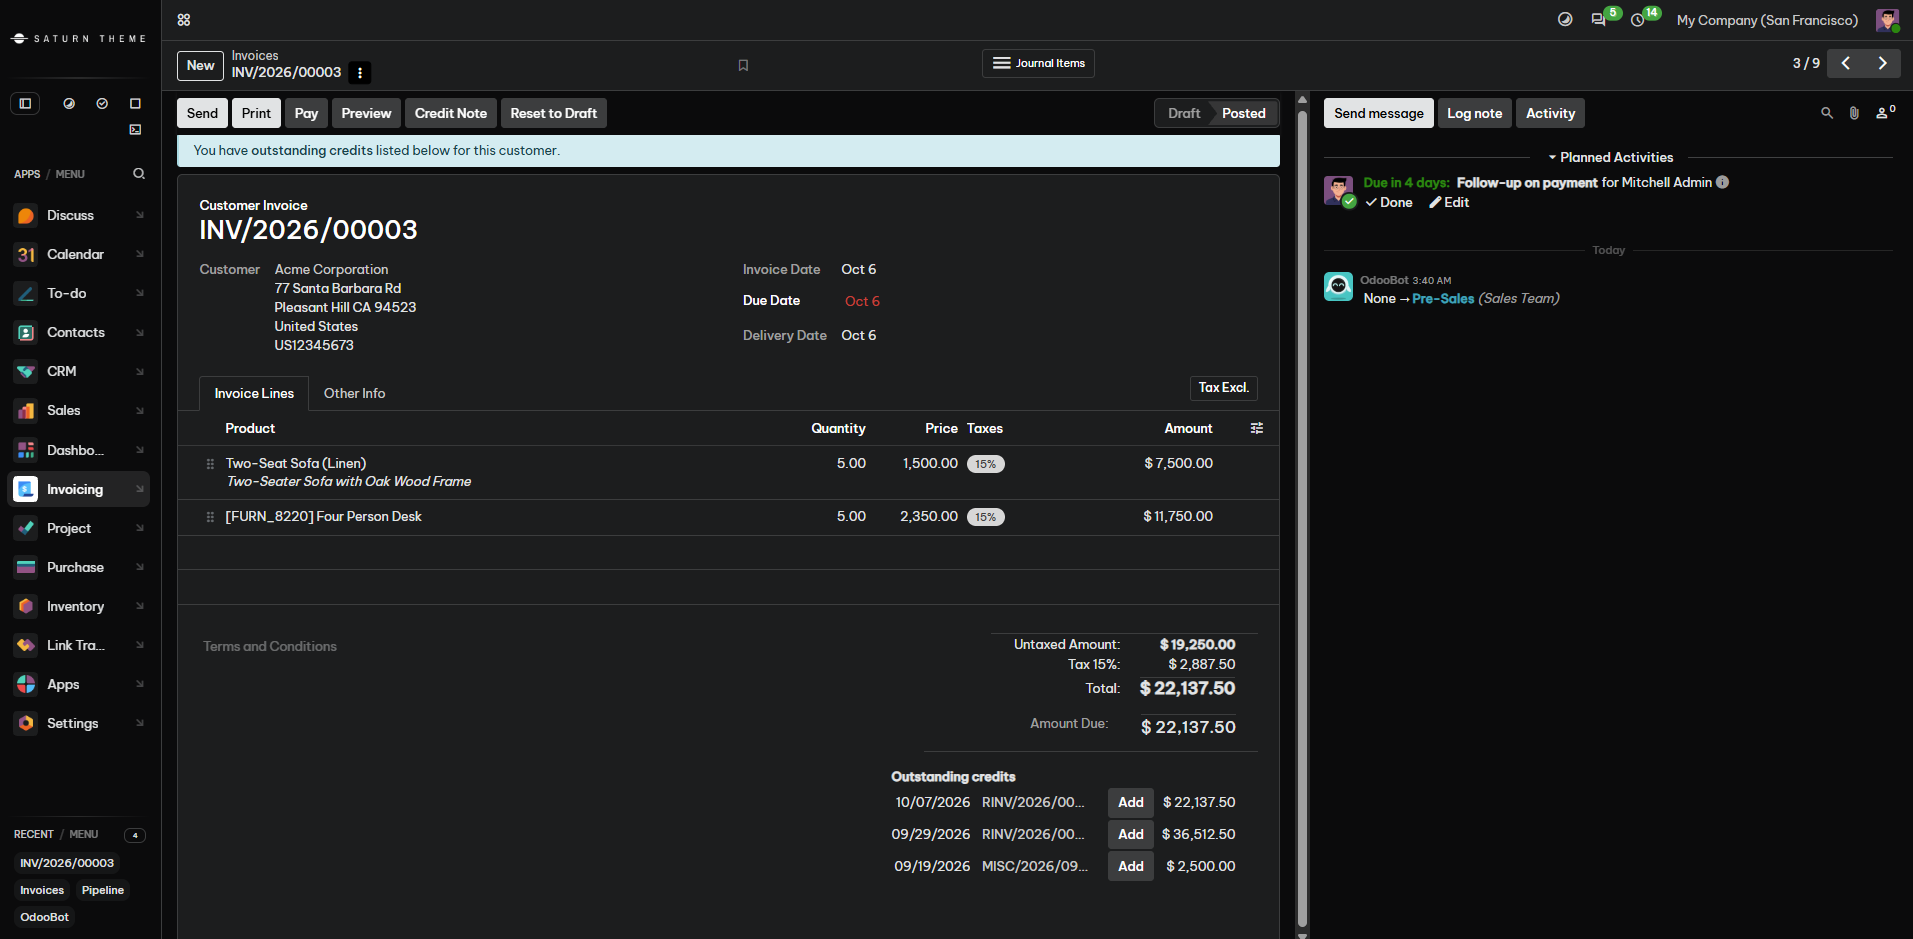
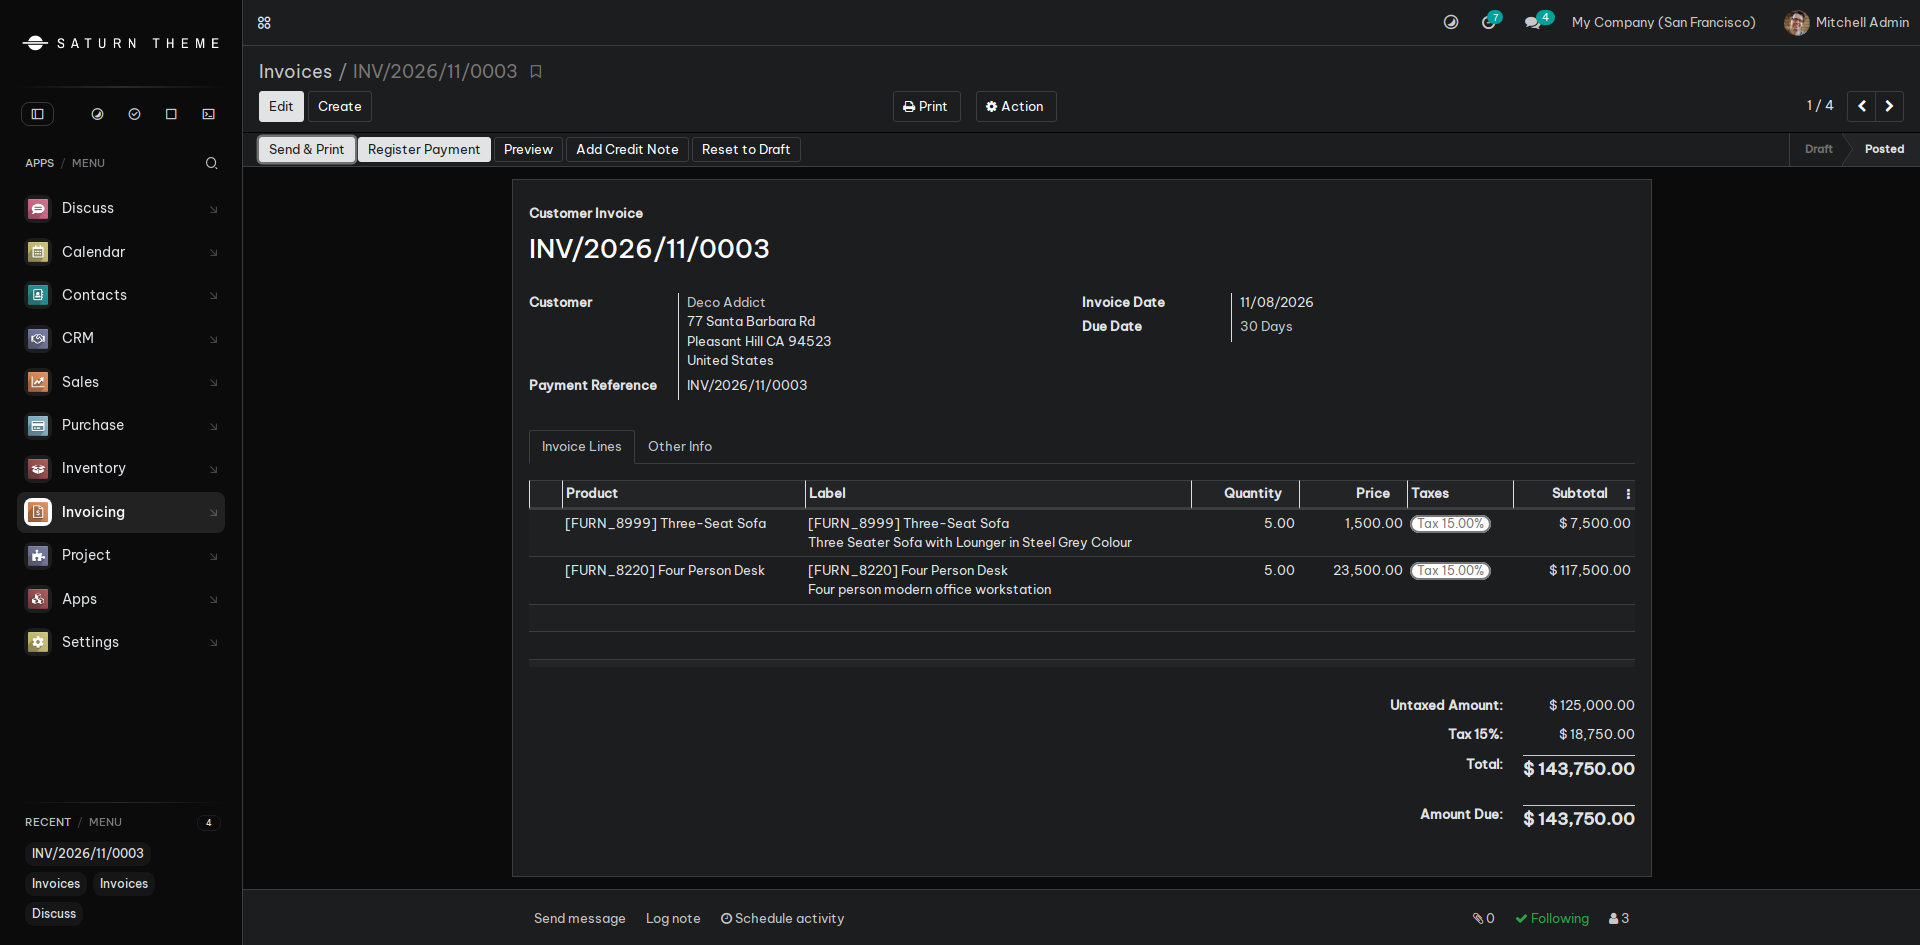
Retake store screenshots on Odoo 14.0, credit Manh Nguyen
Retake the nine description screenshots and the banner on Odoo 14.0 with
demo data, so the store page shows this version rather than Odoo 20.
Credit Manh Nguyen <parabol123654@gmail.com> in the description page
support line and the module LICENSE.
Also make the status badges readable in the 14.0 dark scheme: Odoo 14
labels its tinted badges with a hardcoded #333.

diff --git a/saturn_backend/static/description/index.html b/saturn_backend/static/description/index.html
@@ -128,6 +128,6 @@
       <li>Depends only on <code>web</code> and <code>mail</code></li>
     </ul>
     <h3 style="font-size:20px;font-weight:700;color:#141416;margin:0 0 10px;">Support</h3>
-    <p style="font-size:15px;color:#3a3a44;margin:0;">Questions or issues? Contact Sanxus Lab at <a href="https://sanxus.com" target="_blank">sanxus.com</a>.</p>
+    <p style="font-size:15px;color:#3a3a44;margin:0;">Questions or issues? Contact Manh Nguyen at <a href="mailto:parabol123654@gmail.com">parabol123654@gmail.com</a>.</p>
   </div>
 </section>

diff --git a/saturn_backend/static/src/scss/dark_views.scss b/saturn_backend/static/src/scss/dark_views.scss
@@ -263,3 +263,10 @@ textarea {
         color: $sd-raised;
     }
 }
+
+// Status badges (`bg-success-light`, `bg-danger-light`...): Odoo 14 paints
+// them as a half-transparent tint with a hardcoded #333 label, which is
+// unreadable once the row behind the tint is near-black.
+.o_field_badge[class*="bg-"][class*="-light"] {
+    color: #f2f2f2;
+}
